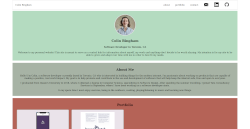
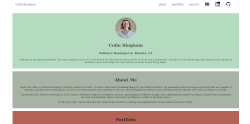
Fixed issues with responsive images at small resolutions

diff --git a/styles/style.css b/styles/style.css
@@ -1,3 +1,4 @@
+/****** General Styles ******/
 html {
   font-size: 20px;
 }
@@ -11,6 +12,7 @@ p {
   font-size: 0.8em;
 }
 
+/****** Header Styles ******/
 .header {
   background-color: #fff;
   position: fixed;
@@ -18,6 +20,7 @@ p {
   width: 90%;
 }
 
+/****** Navigation Styles ******/
 .navbar * {
   margin: 0;
   padding: 0;
@@ -38,7 +41,6 @@ p {
   display: none;
   list-style-type: none;
 }
-
 
 .main_nav {
   margin-top: 1em;
@@ -65,15 +67,29 @@ p {
     top: 6px;
 }
 
+.main_nav > li {
+  border-top: 1px solid black;
+  padding: 0.5em 0;
+}
+
+.main_nav > li:active {
+  background-color: #EAE3EA;
+}
+
 .active {
   display: block;
 }
 
+.section_title {
+  margin: 0.5em;
+}
+
+/****** Profile Section Styles ******/
 .profile {
   background-color: #B4DBC0;
-  margin-top: 3em;
-  text-align: center;
+  margin-top: 2em;
   padding: 1em 2em;
+  text-align: center;
 }
 
 .profile_pic {
@@ -85,6 +101,7 @@ p {
   width: 150px;
 }
 
+/****** About Me Styles ******/
 .about {
   background-color: #A7B3A5;
   margin: 1em 0;
@@ -92,6 +109,8 @@ p {
   text-align: center;
 }
 
+
+/****** Portfolio Section Styles ******/
 .portfolio {
   background-color: #B56357;
   padding: 1em 2em;
@@ -102,41 +121,32 @@ p {
   display: grid;
   grid-auto-rows: minmax(100px, auto);
   grid-gap: 20px;
-  grid-template-columns: repeat(auto-fill, minmax(350px, 1fr));
+  grid-template-columns: repeat(auto-fill, minmax(400px, 1fr));
 }
 
 .projects > div {
-  border-radius: 5px;
-  padding: 1em 0.5em;
   background-color: #EAE3EA;
   border: 2px solid #A7B3A5;
-}
-
-.main_nav > li {
-  border-top: 1px solid black;
-  padding: 0.5em 0;
-}
-
-.main_nav > li:active {
-  background-color: #EAE3EA;
+  border-radius: 5px;
+  padding: 1em 0.5em;
 }
 
 .personal_site {
-  content: url('../images/personalSite250px.png');
+  content: url('../images/personalSite350px.png');
   margin: auto;
 }
 
 .qalog {
-  content: url('../images/QAlog200px.png');
+  content: url('../images/QAlog250px.png');
   margin: auto;
 }
 
 .housematch {
-  content: url('../images/houseMatch250px.jpg');
+  content: url('../images/houseMatch350px.png');
   margin: auto;
 }
 
-
+/****** Contact Section Styles ******/
 .contact {
   background-color: #A7B3A5;
   margin: 1em 0;
@@ -144,10 +154,11 @@ p {
   text-align: center;
 }
 
+/****** Footer Styles ******/
 .footer {
   border-top: 1px solid black;
-  padding-top: 1em;
   padding-bottom: 0.5em;
+  padding-top: 0.5em;
   text-align: center;
 }
 
@@ -169,18 +180,20 @@ p {
   color: #D3D3D3;
 }
 
+/* Custom styling for devies up to 768px wide */
 @media screen and (min-width: 768px) {
-  .main_nav > li{
-    border: none;
 
+  /****** Navigation Styles ******/
+  .logo {
+    margin-top: 0;
   }
 
-  .main_nav > li:active {
-    background-color: #FFFFFF;
-  }
-
-  .profile {
-    margin-top: 5em;
+  .main_nav {
+    display: flex;
+    flex-direction: row;
+    justify-content: flex-end;
+    margin: 0;
+    margin-right: 30px;
   }
 
   .navbar {
@@ -190,16 +203,13 @@ p {
     justify-content: space-between;
     padding-bottom: 0;
   }
-  .main_nav {
-    display: flex;
-    flex-direction: row;
-    justify-content: flex-end;
-    margin: 0;
-    margin-right: 30px;
+
+  .navbar-toggle {
+    display: none;
   }
 
-  .main_nav li {
-    margin: auto 0;
+  .nav_links {
+    margin-left: 40px;
   }
 
   .secondary_nav {
@@ -209,41 +219,73 @@ p {
     margin-right: 30px;
   }
 
-  .secondary_nav li {
-    margin: auto 0;
-    padding: 0 0.1em;
-  }
-
-  .nav_links {
-    margin-left: 40px;
-  }
-
-  .logo {
-    margin-top: 0;
-  }
-
-  .navbar-toggle {
-    display: none;
-  }
-
   .logo:hover,
   .nav-links:hover {
-      color: #ffffff;
+    color: #ffffff;
   }
 
   .logo:visited, .nav_links:visited {
     color: #000;
     text-decoration: none;
   }
+
+  .main_nav li {
+    margin: auto 0;
+  }
+
+  .main_nav > li{
+    border: none;
+  }
+
+  .main_nav > li:active {
+    background-color: #FFFFFF;
+  }
+
+  .secondary_nav li {
+    margin: auto 0;
+    padding: 0 0.1em;
+  }
+
+  /****** Profile Section Styles ******/
+  .profile {
+    margin-top: 5em;
+  }
+
+}
+
+/* Custome styling for devices less than 500px wide */
+@media screen and (max-width: 500px) {
+
+  /****** Portfolio Section Styles ******/
+  .projects {
+      grid-template-columns: repeat(auto-fill, minmax(300px, 1fr));
+  }
+
+  .personal_site {
+    content: url('../images/personalSite250px.png');
+  }
+
+  .housematch {
+    content: url('../images/houseMatch250px.png');
+  }
+
 }
 
 
+/* Custome styling for devices less than 400px wide */
 @media screen and (max-width: 399px) {
-  .html {
-    background-color: red;
+
+  /****** Portfolio Section Styles ******/
+  .projects {
+    grid-template-columns: repeat(auto-fill, minmax(180px, 1fr));
   }
 
-  .projects {
-      grid-template-columns: repeat(auto-fill, minmax(180px, 1fr));
+  .personal_site {
+    content: url('../images/personalSite150px.png');
   }
+
+  .housematch {
+    content: url('../images/houseMatch150px.png');
+  }
+
 }

diff --git a/index.html b/index.html
@@ -51,7 +51,7 @@
 
         <!--About Me-->
         <section class="about" id="about">
-            <h2>About Me</h2>
+            <h2 class="section_title">About Me</h2>
             <p>
                 Hello! I'm Colin, a software developer currently based in Toronto,
                 CA who is interested in building things for the modern internet.
@@ -74,7 +74,7 @@
 
         <!--Portfolio-->
         <section class="portfolio" id="portfolio">
-            <h2>Portfolio</h2>
+            <h2 class="section_title">Portfolio</h2>
             <div class="projects">
 
                 <!-- Personal Site -->
@@ -131,7 +131,7 @@
 
         <!--Contact-->
         <section class="contact" id="contact">
-            <h2>Contact</h2>
+            <h2 class="section_title">Contact</h2>
             <p>Whether you want to discuss an interesting project/opportunity, or just say hello, my inbox is always open!
                 Please feel free to reach out to me via Email or through my LinkedIn.
             </p>
